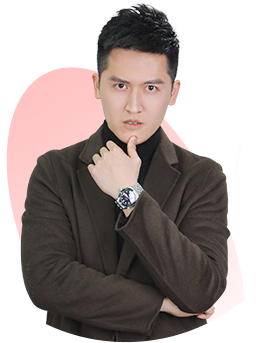
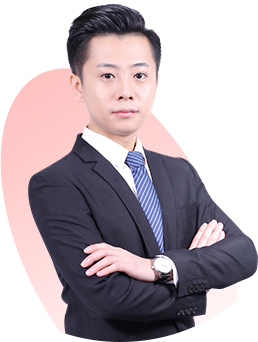
更新站点图片

diff --git a/src/pages/page03/views/section01.js b/src/pages/page03/views/section01.js
@@ -12,47 +12,47 @@ const mentorInfos = [
   {
     themeType: 'themeOne',
     mentorImage: mentorImage01,
-    alt: '嘉伟导师',
-    title: '嘉伟导师',
-    des01: '国家首批情感挽回专家',
-    des02: '首席主导师',
-    para: '每一段真挚的感倩，都值得被祝福；感情中最可伯的不是不爱了，而是爱错了方式，让双方抱憾终生。'
+    alt: 'Herry 导师',
+    title: 'Herry 导师',
+    des01: '进化心理学专家',
+    des02: '国家二级心理咨询师',
+    para: '没有完全合适的两个人，你觉得感情出现了问题，其实是你自身出现了问题！每一段感情都值得你全力以赴！'
   },
   {
     themeType: 'themeTwo',
     mentorImage: mentorImage02,
-    alt: '阿苏导师',
-    title: '阿苏导师',
-    des01: '首席挽回专家',
-    des02: '高级两性心理学导师',
-    para: '走在路上，感触太多，累过，笑过，或许正是这份责任和被寄托的希望，才是我们不断前行的动力。'
+    alt: '艾薇导师',
+    title: '艾薇导师',
+    des01: '国内资深婚恋挽回专家',
+    des02: '国内资深性心理专家',
+    para: '完美的两性关系，不是彼此控制和支配，而是允许对方有自由呼吸的空间，同时保持自身的魅力值，活出精彩，做到平衡、平等、平权。'
   },
   {
     themeType: 'themeOne',
     mentorImage: mentorImage03,
-    alt: 'HOPE导师',
-    title: 'HOPE导师',
-    des01: '婚姻恋爱咨询师',
-    des02: '家庭关系资深导师',
-    para: '唯有我们真正的认识、理解并接纳内在真实的自己，改变才会发生。用对方式，你爱的那个人自然感受得到，自然会回来。'
+    alt: '亚米导师',
+    title: '亚米导师',
+    des01: '小鱼情感高级形象设计师',
+    des02: '应用心理学专业毕业',
+    para: '凡事有果必有因，每个人都应在了解自己的基础上，获得情感的自由！'
   },
   {
     themeType: 'themeTwo',
     mentorImage: mentorImage04,
-    alt: '子叶导师',
-    title: '子叶导师',
-    des01: '首席挽回专家',
-    des02: '女性心理与行为侧写师',
-    para: '不要做无用功，发现问题的本质才是解决问题的唯一方式。'
+    alt: 'sunny 导师',
+    title: 'sunny 导师',
+    des01: '小鱼情感高级导师',
+    des02: '两性心理侧写师',
+    para: '每个人面对爱情陷入僵局，都会陷入迷茫，有时候换个角度去思考，你会看到不一样的人生风景，了解自己，才更懂得去爱。'
   },
   {
     themeType: 'themeOne',
     mentorImage: mentorImage05,
-    alt: '青恩导师',
-    title: '青恩导师',
-    des01: '国内第一批清感咨询导师',
-    des02: '权威进化心理学专家',
-    para: '因为董得，所以理解；因为理解，所以严格。每一段感情，都需要我们以负责的心态去把握。'
+    alt: 'Andy 导师',
+    title: 'Andy 导师',
+    des01: '小鱼情感资深分析导师',
+    des02: '两性权威专家',
+    para: '恋爱的节奏和人们成长的节奏，理应是同步的，只有你有价值，你的爱才有价值。'
   }
 ];
 
